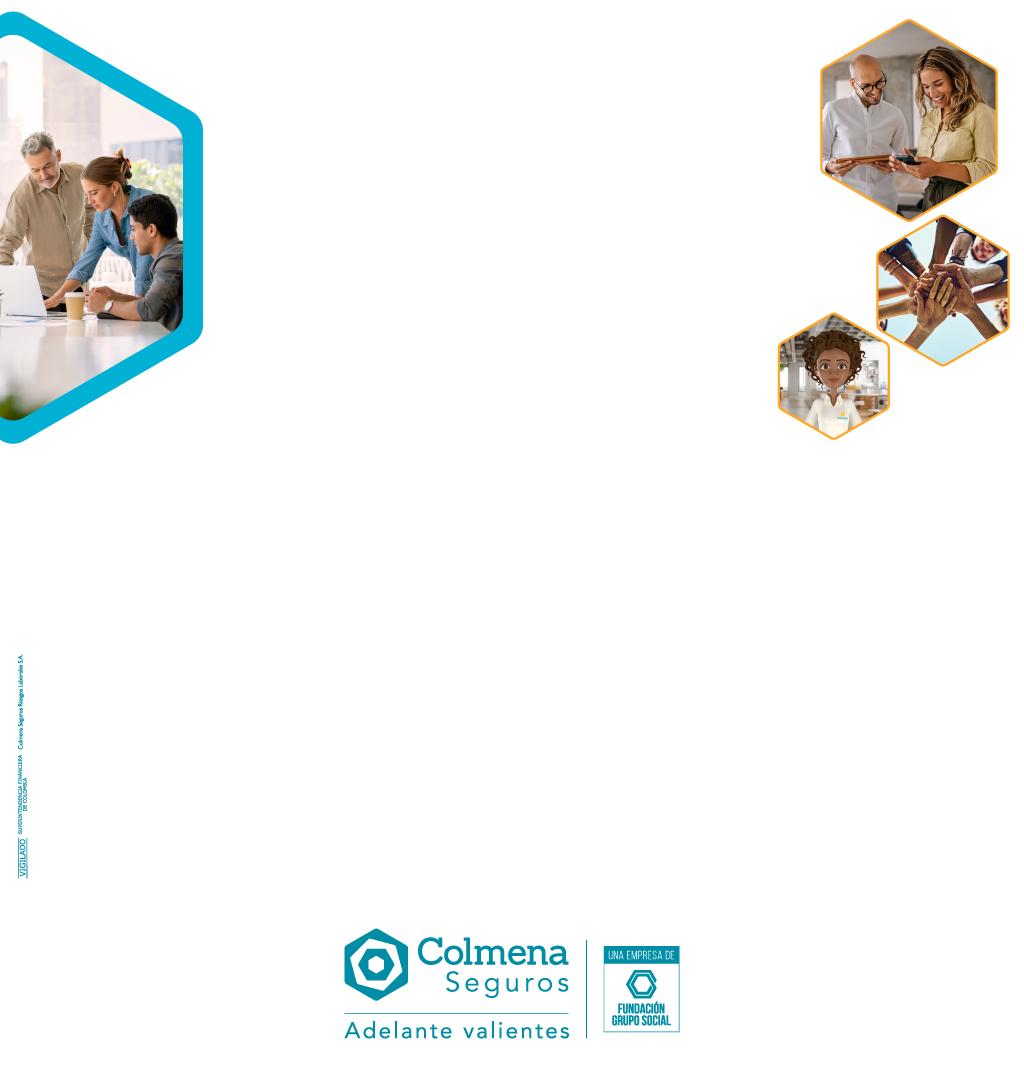
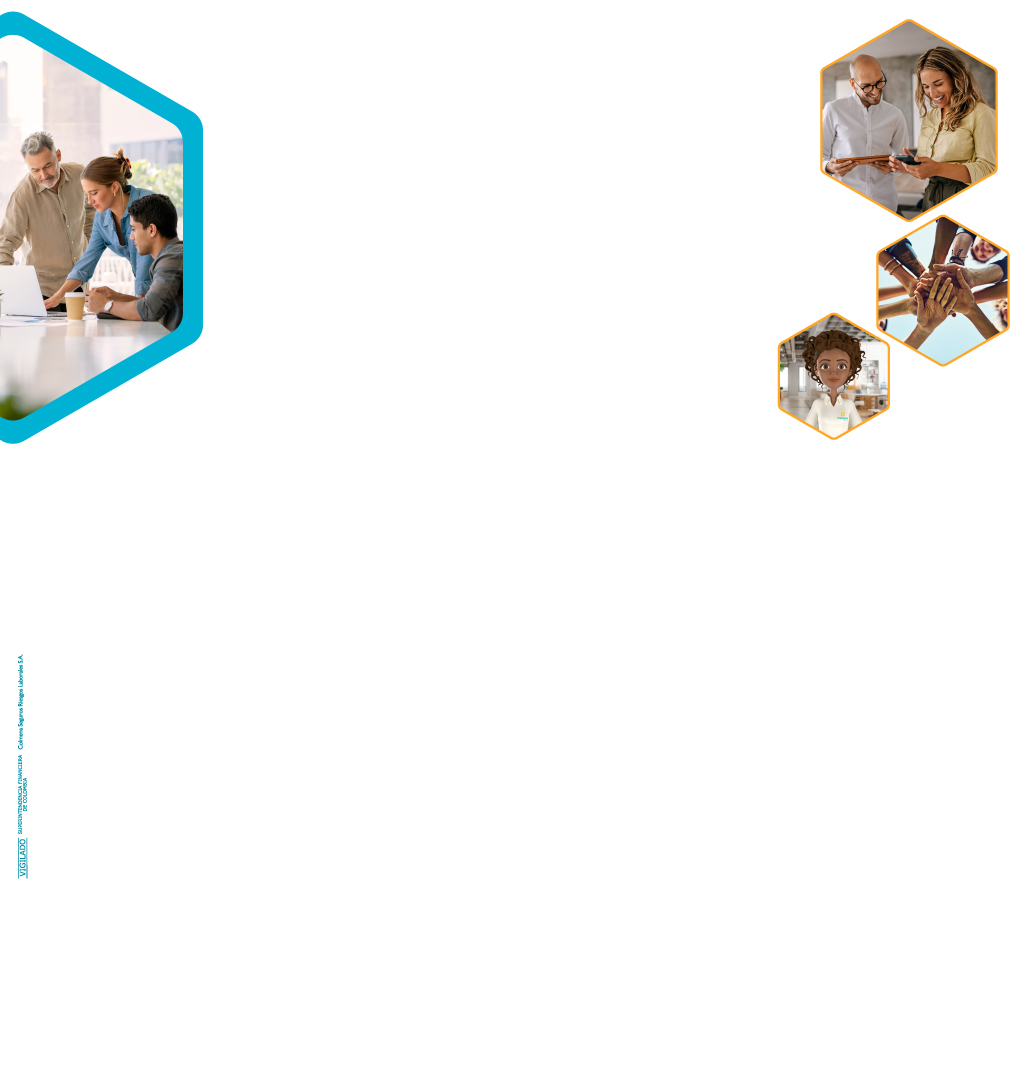
cambios background imagen tamaños pantalla

Changed region(s): [[0.3125, 0.8556, 0.6875, 0.9778]]

diff --git a/src/style.css b/src/style.css
@@ -99,7 +99,12 @@ input {
 }
 
 .logo-container {
-    padding-bottom: 10%;
+    display: flex;
+    flex-direction: column;
+    justify-content: flex-end;
+    align-items: flex-end;
+    width: 100%;
+    padding-bottom: 10px;
     padding-left: 10%;
     padding-right: 10%;
 }
@@ -122,7 +127,7 @@ input {
         padding: 20px; 
         border-radius: 10px; 
         max-width: 300px; 
-        margin-top: 50px;
+        margin-top: 120px;
         width: 100%;
     }
 
@@ -134,6 +139,21 @@ input {
 
     .input-container {
         margin-bottom: 5px !important; 
+    }
+
+    .logo-container {
+        display: flex;
+        flex-direction: column;
+        justify-content: center;
+        align-items: center;
+        width: 100%;
+        padding-bottom: 10px;
+        padding-left: 10%;
+        padding-right: 10%;
+    }
+    
+    .logo-container img {
+        max-width: 50%;
     }
   }
   
@@ -150,6 +170,17 @@ input {
         border-radius: 10px; 
         max-width: 350px; 
         width: 100%;
+    }
+
+    .logo-container {
+        display: flex;
+        flex-direction: column;
+        justify-content: center;
+        align-items: center;
+        width: 100%;
+        padding-bottom: 10px;
+        padding-left: 10%;
+        padding-right: 10%;
     }
   }
   

diff --git a/src/formulario.js b/src/formulario.js
@@ -1,7 +1,7 @@
 import React from 'react';
 import './style.css'; // Asumiendo que tienes un archivo de estilo llamado Formulario.css
 import Logo from './img/formar2024-logo.png'
-import Logocolmena from './img/logo-colmena-seguros@4x.png'
+import Logocolmena from './img/logo-colmena-seguros.png'
 
 const Formulario = ({ onEnter }) => {
 
